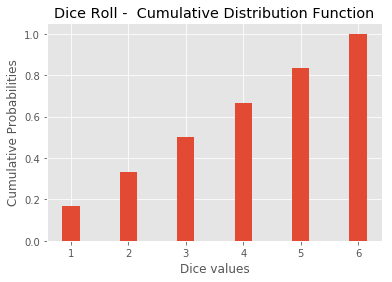
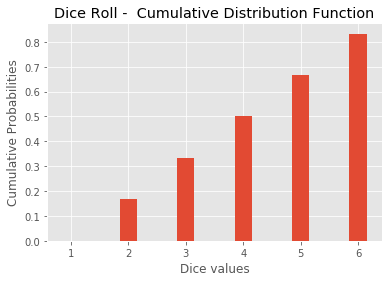
adding %matplotlib inline call

diff --git a/README.md b/README.md
@@ -31,7 +31,7 @@ So given a list of all possible values of x, We can easily calculate the CDF for
 def calculate_cdf(lst, X):
     count = 0
     for value in lst:
-        if value <= X:
+        if value < X:
             count += 1
 
     cum_prob = count / len(lst) # normalizing cumulative probabilities (as with pmfs)
@@ -47,7 +47,7 @@ calculate_cdf(test_lst, test_X)
 
 
 
-    0.667
+    0.333
 
 
 
@@ -70,7 +70,7 @@ dice_cum
 
 
 
-    [0.167, 0.333, 0.5, 0.667, 0.833, 1.0]
+    [0.0, 0.167, 0.333, 0.5, 0.667, 0.833]
 
 
 
@@ -82,6 +82,7 @@ Following this, we now have a list of possible values, and a second list contain
 
 ```python
 import matplotlib.pyplot as plt
+%matplotlib inline
 plt.style.use('ggplot')
 
 plt.bar(dice_lst, dice_cum, width=0.3);
@@ -89,6 +90,10 @@ plt.title ("Dice Roll -  Cumulative Distribution Function");
 plt.xlabel('Dice values')
 plt.ylabel('Cumulative Probabilities');
 ```
+
+
+![png](index_files/index_7_0.png)
+
 
 ## Level Up (optional)
 
